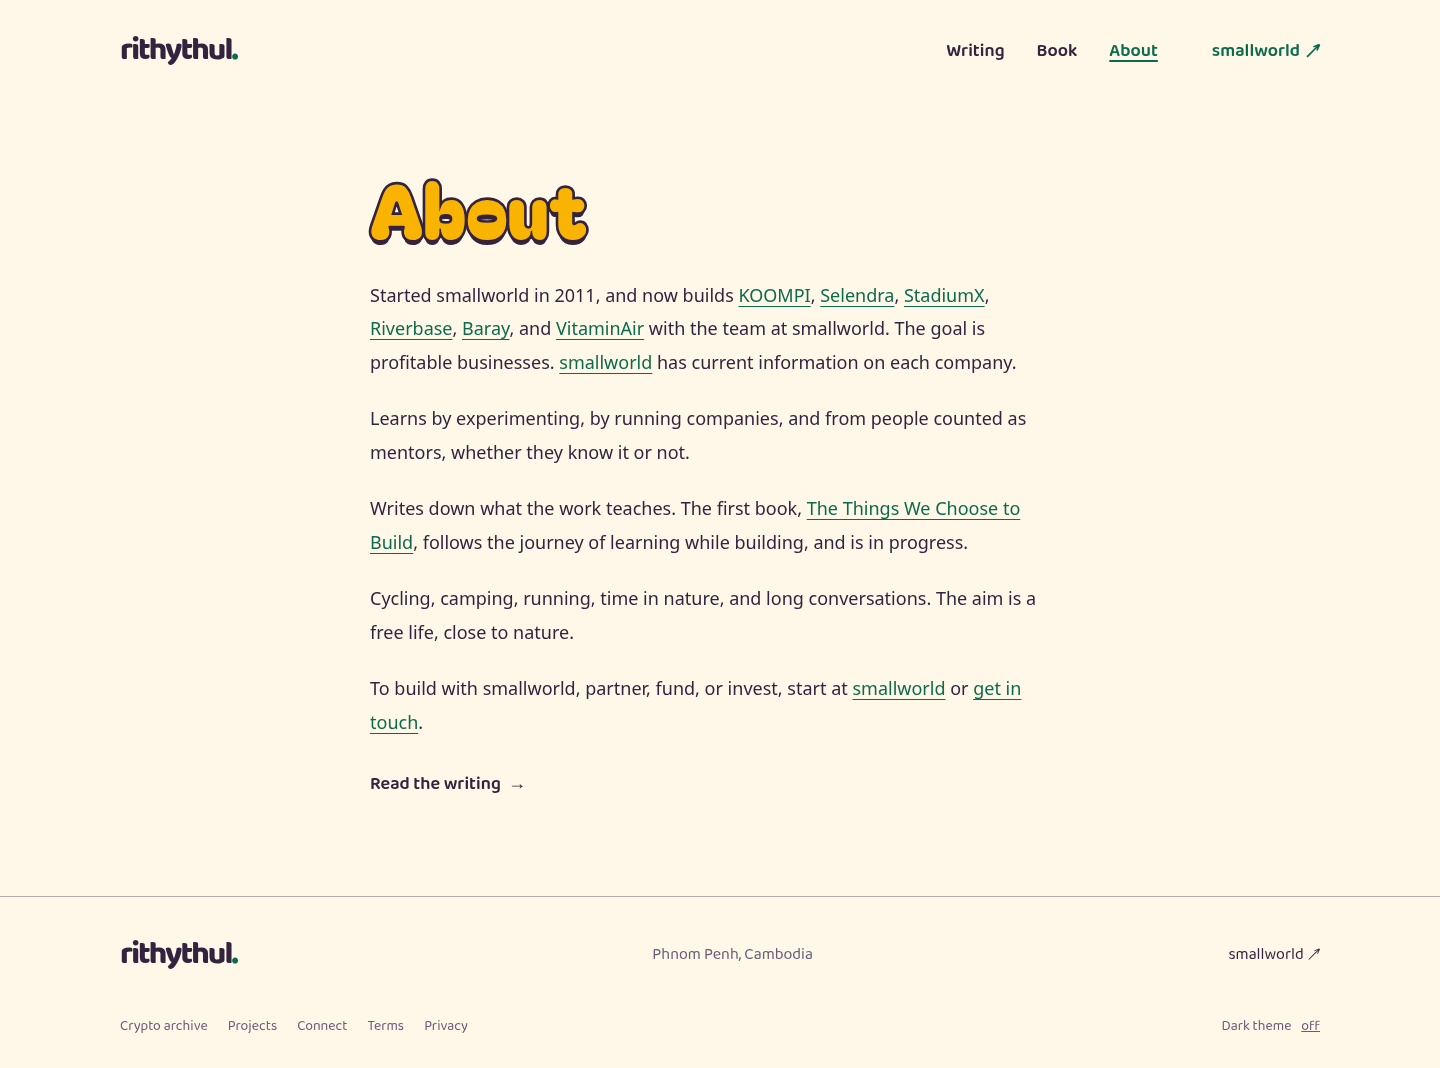
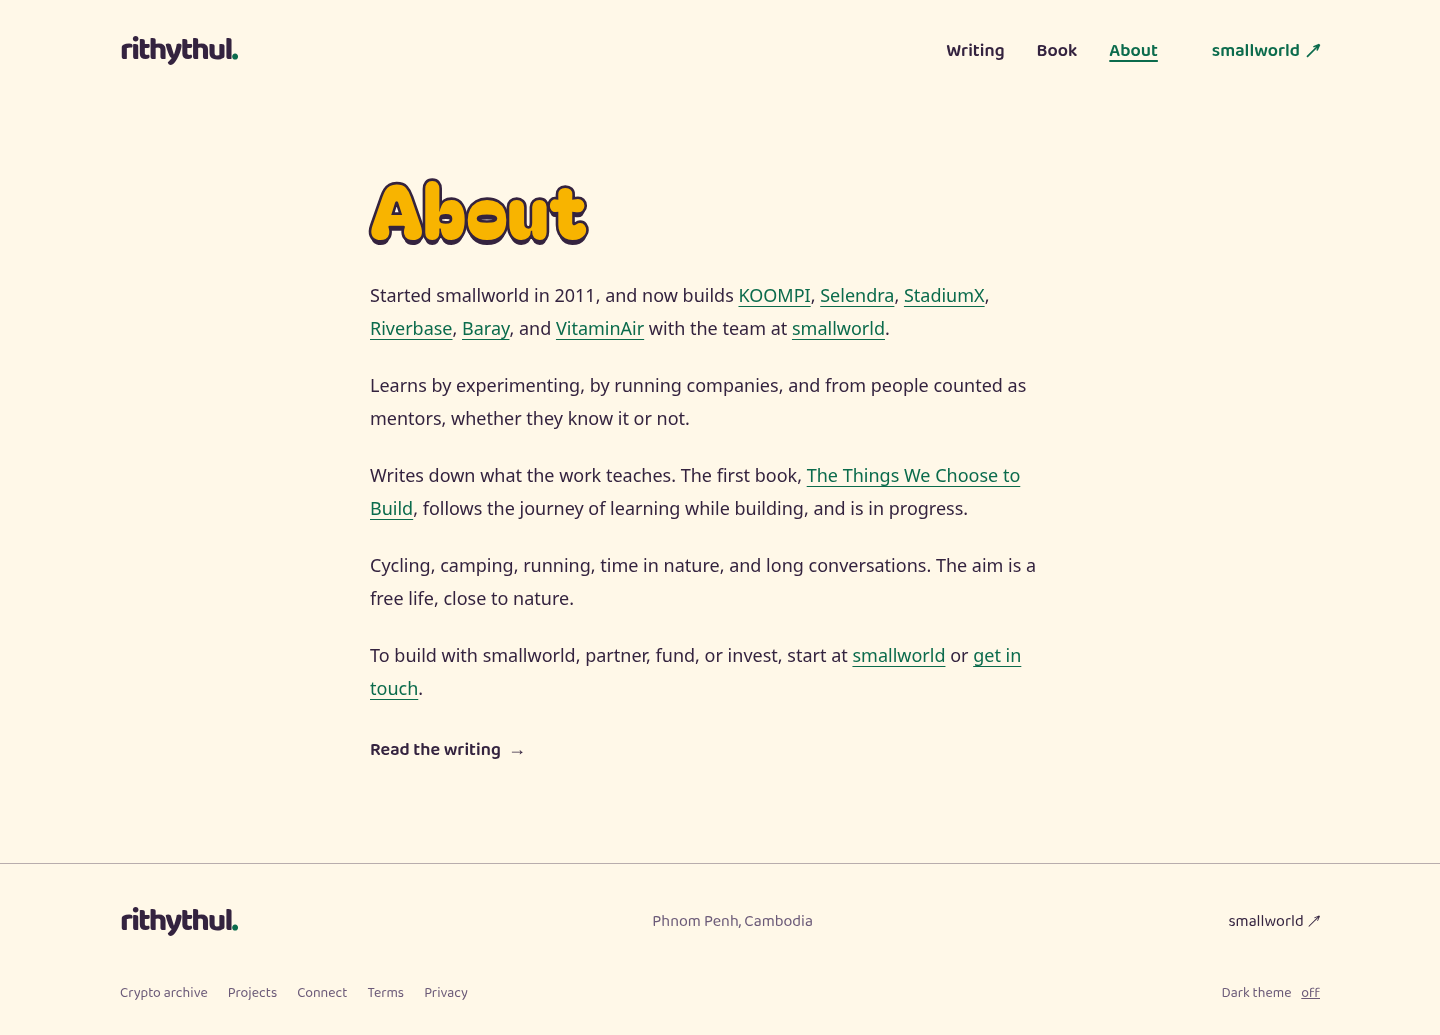
Keep /about's opening to facts
rithythul: no marketing. Removed 'The goal is profitable businesses' and 'smallworld has current information on each company'; smallworld is linked in the sentence instead.

diff --git a/rithyorg/app/about/page.tsx b/rithyorg/app/about/page.tsx
@@ -16,9 +16,8 @@ export default function AboutPage() {
           Started smallworld in 2011, and now builds <a href="https://koompi.com">KOOMPI</a>,{" "}
           <a href="https://selendra.org">Selendra</a>, <a href="https://stadiumx.asia">StadiumX</a>,{" "}
           <a href="https://riverbase.app">Riverbase</a>, <a href="https://baray.io">Baray</a>, and{" "}
-          <a href="https://vitaminair.org">VitaminAir</a> with the team at smallworld. The goal is profitable
-          businesses.{" "}
-          <a href="https://smallworld.xyz/">smallworld</a> has current information on each company.
+          <a href="https://vitaminair.org">VitaminAir</a> with the team at{" "}
+          <a href="https://smallworld.xyz/">smallworld</a>.
         </p>
 
         <p>
